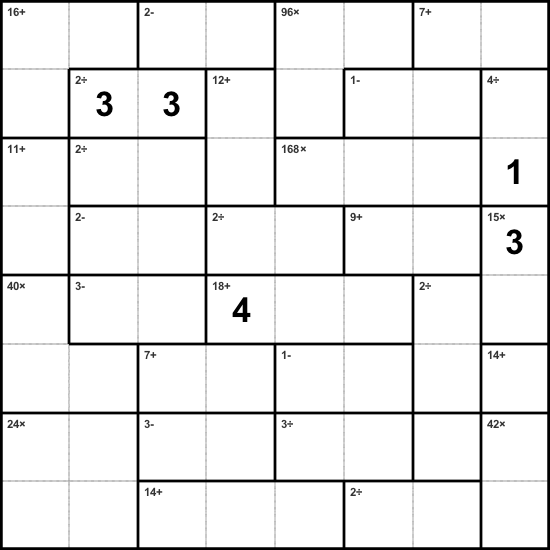
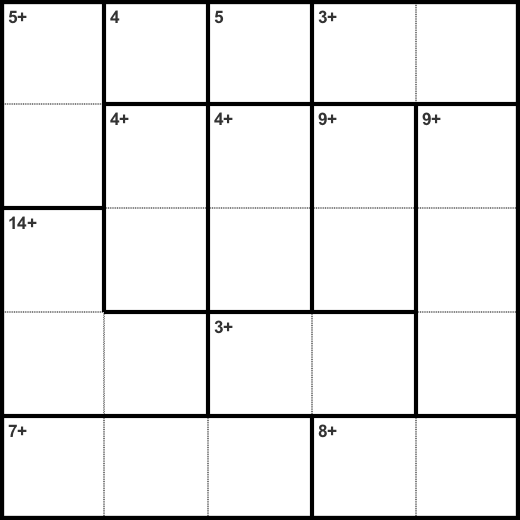
ajout bouton hypothese

Changed region(s): [[0.0, 0.0, 1.0, 1.0]]

diff --git a/calcudoku/target/classes/styles/style.css b/calcudoku/target/classes/styles/style.css
@@ -28,5 +28,14 @@
 }
 
 .case-indice-surbrillance {
-    -fx-background-color: #7dec91; /* Un petit bleu très clair */
+    -fx-background-color: #7dec91; 
+}
+
+.case-erreur {
+    -fx-background-color: #f7bcc2 ; 
+}
+
+.label-hypothese {
+    -fx-text-fill: #9e9e9e !important; /* Gris */
+    -fx-font-style: italic;
 }

diff --git a/calcudoku/src/main/java/fr/univ/calcudoku/controller/JeuController.java b/calcudoku/src/main/java/fr/univ/calcudoku/controller/JeuController.java
@@ -18,7 +18,10 @@ import javafx.scene.layout.HBox;
 import javafx.scene.layout.Region;
 import javafx.scene.layout.StackPane;
 import javafx.scene.layout.VBox;
-
+import javafx.animation.KeyFrame;
+import javafx.animation.Timeline;
+import javafx.scene.control.Label;
+import javafx.util.Duration;
 import fr.univ.calcudoku.MainApp;
 import javafx.scene.SnapshotParameters;
 import javafx.scene.image.WritableImage;
@@ -28,6 +31,8 @@ import javax.imageio.ImageIO;
 import java.io.File;
 import java.util.ArrayList;
 import java.util.List;
+import javafx.animation.PauseTransition;
+
 
 public class JeuController {
 
@@ -45,6 +50,19 @@ public class JeuController {
     @FXML private Button btnAmeliorerAide;
     @FXML private Button btnAidePrecedente;
     @FXML private Button btnAideSuivante;
+
+    @FXML private Button btnValider;
+
+    @FXML private Button btnHypothese;
+    @FXML private HBox conteneurBoutonsHypothese;
+    @FXML private Button btnValiderHypothese;
+    @FXML private Button btnAnnulerHypothese;
+
+    private boolean modeHypotheseActif = false;
+     
+    @FXML private Label labelChrono;
+    private Timeline timeline;
+    private int secondesEcoulees = 0;
 
     private Grille grilleModele;
     private VueGrille vueGrille;
@@ -90,7 +108,7 @@ public class JeuController {
         for (fr.univ.calcudoku.model.GroupementCases bloc : grilleModele.getListeGroupements()) {
             bloc.calculerPossibilites(grilleModele.getTaille());
         }
-
+        demarrerChrono();
         aideService.lancerAnalyse(grilleModele);
     }
 
@@ -108,6 +126,21 @@ public class JeuController {
             
             conteneurBoutonsNombres.getChildren().add(btnChiffre);
         }
+    }
+
+    private void demarrerChrono() {
+        secondesEcoulees = 0; 
+        
+        timeline = new Timeline(new KeyFrame(Duration.seconds(1), event -> {
+            secondesEcoulees++;
+            
+            int minutes = secondesEcoulees / 60;
+            int secondes = secondesEcoulees % 60;
+                        labelChrono.setText(String.format("%02d:%02d", minutes, secondes));
+        }));
+        
+        timeline.setCycleCount(Timeline.INDEFINITE); 
+        timeline.play(); 
     }
 
     public void sauvegarderImageGrille(String nomFichier) {
@@ -129,19 +162,22 @@ public class JeuController {
             
             File fichierFinal = new File(dossierImages, nomImage);
 
+            actionFermerBulleAide(); 
+
             if (vueCaseSelectionnee != null) {
                 vueCaseSelectionnee.getStyleClass().remove("case-selectionnee");
             }
             
+            for (int y = 0; y < grilleModele.getTaille(); y++) {
+                for (int x = 0; x < grilleModele.getTaille(); x++) {
+                    vueGrille.getGrilleVueCases(x, y).getStyleClass().remove("case-erreur");
+                }
+            }
             vueGrille.setStyle("-fx-background-color: white;");
 
             SnapshotParameters params = new SnapshotParameters();
-            params.setFill(Color.WHITE); 
+            params.setFill(Color.TRANSPARENT); 
             WritableImage image = vueGrille.snapshot(params, null);
-
-            if (vueCaseSelectionnee != null) {
-                vueCaseSelectionnee.getStyleClass().add("case-selectionnee");
-            }
 
             ImageIO.write(SwingFXUtils.fromFXImage(image, null), "png", fichierFinal);
             
@@ -168,6 +204,12 @@ public class JeuController {
             } else {
                 caseModeleSelectionnee.setValeur(valeur);   
                 
+                if (modeHypotheseActif) {
+                    vueCaseSelectionnee.setEstHypothese(true);
+                } else {
+                    vueCaseSelectionnee.setEstHypothese(false);
+                }
+
                 if (grilleModele.estGagnee()) {
                     System.out.println("VICTOIRE ! La grille est complétée correctement !");
                 }
@@ -268,11 +310,74 @@ public class JeuController {
         }
     }
 
+    @FXML
+    void actionVerifier(ActionEvent event) {
+        List<VueCase> casesEnErreur = new ArrayList<>();
+        int taille = grilleModele.getTaille();
+
+        for (int y = 0; y < taille; y++) {
+            for (int x = 0; x < taille; x++) {
+                Case c = grilleModele.getCase(x, y);
+                int valeurJoueur = c.getValeur();
+                
+                if (valeurJoueur != 0 && valeurJoueur != c.getSolution()) {
+                    casesEnErreur.add(vueGrille.getGrilleVueCases(x, y));
+                }
+            }
+        }
+
+        for (VueCase vc : casesEnErreur) {
+            if (!vc.getStyleClass().contains("case-erreur")) {
+                vc.getStyleClass().add("case-erreur");
+            }
+        }
+
+        PauseTransition pause = new PauseTransition(Duration.seconds(3));
+        pause.setOnFinished(e -> {
+            for (VueCase vc : casesEnErreur) {
+                vc.getStyleClass().remove("case-erreur");
+            }
+        });
+        pause.play();
+    }
+
     private void mettreAJourBoutonsNavigation() {
         if (listeAides.isEmpty()) return;
 
         btnAidePrecedente.setDisable(indexAideActuelle == 0);
         btnAideSuivante.setDisable(indexAideActuelle == listeAides.size() - 1);
         btnAmeliorerAide.setDisable(!listeAides.get(indexAideActuelle).peutEtreAmeliore());
+    }
+
+    @FXML
+    void actionHypothese(ActionEvent event) {
+        modeHypotheseActif = true;
+        btnHypothese.setDisable(true); 
+        
+        conteneurBoutonsHypothese.setVisible(true);
+        
+    }
+
+    @FXML
+    void actionValiderHypothese(ActionEvent event) {
+        quitterModeHypotheseVisuel();
+    }
+
+    @FXML
+    void actionAnnulerHypothese(ActionEvent event) {
+        quitterModeHypotheseVisuel();
+    }
+
+    private void quitterModeHypotheseVisuel() {
+        modeHypotheseActif = false;
+        btnHypothese.setDisable(false);
+        
+        conteneurBoutonsHypothese.setVisible(false);
+
+        for (int y = 0; y < grilleModele.getTaille(); y++) {
+            for (int x = 0; x < grilleModele.getTaille(); x++) {
+                vueGrille.getGrilleVueCases(x, y).setEstHypothese(false);
+            }
+        }
     }
 }

diff --git a/calcudoku/src/main/java/fr/univ/calcudoku/view/VueCase.java b/calcudoku/src/main/java/fr/univ/calcudoku/view/VueCase.java
@@ -173,4 +173,17 @@ public class VueCase extends StackPane {
             labelIndice.setText("");
         }
     }
+
+    /**
+     * Applique ou retire le style visuel du mode hypothèse sur cette case.
+     */
+    public void setEstHypothese(boolean estHyp) {
+        if (estHyp) {
+            if (!labelValeur.getStyleClass().contains("label-hypothese")) {
+                labelValeur.getStyleClass().add("label-hypothese");
+            }
+        } else {
+            labelValeur.getStyleClass().remove("label-hypothese");
+        }
+    }
 }
